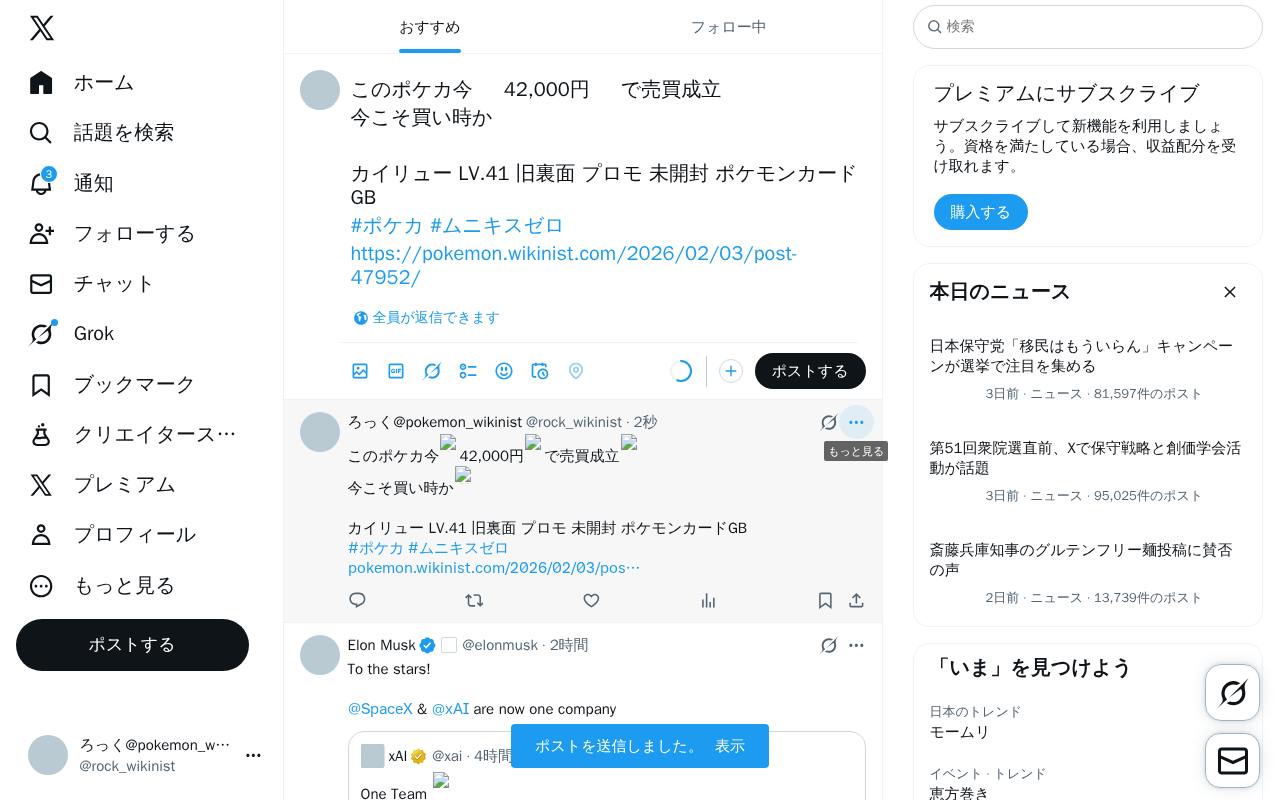
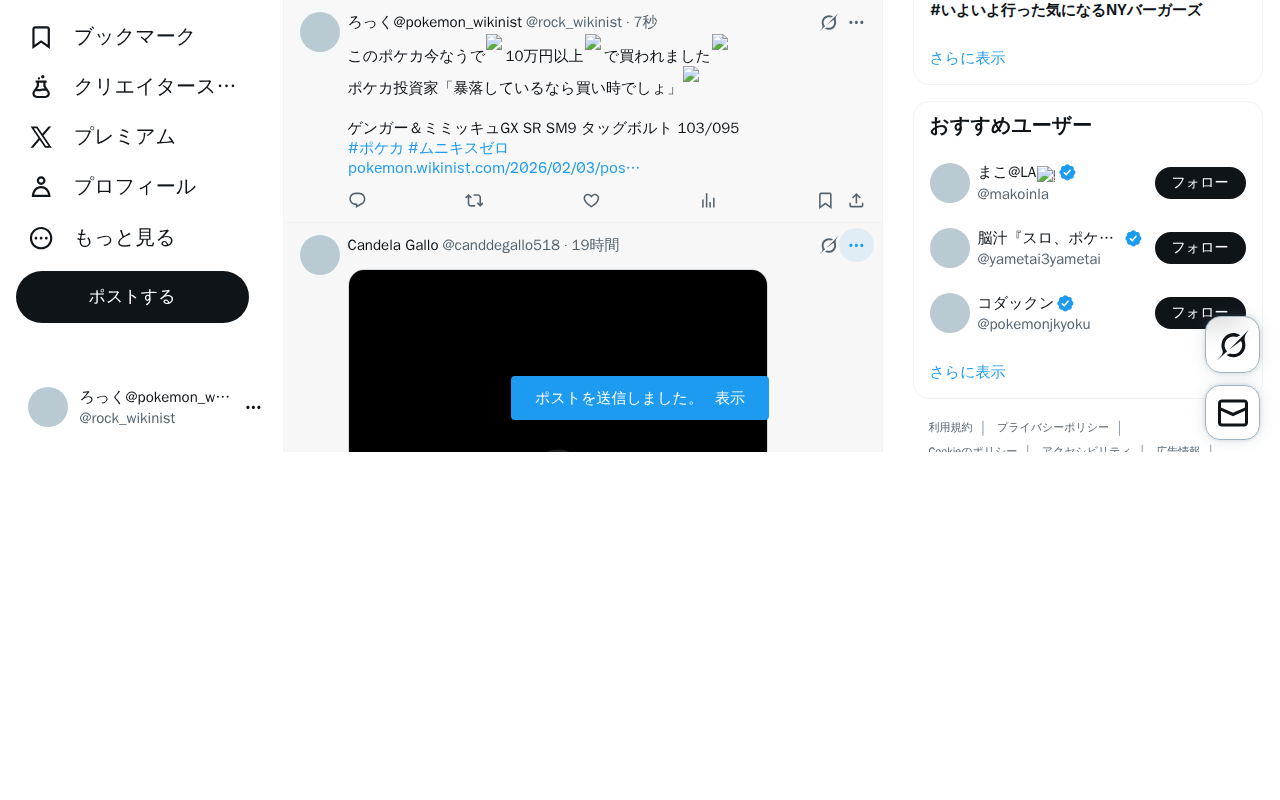
update system data

diff --git a/content/posts/test-pokemon-20260203-115207.md b/content/posts/test-pokemon-20260203-115207.md
@@ -1,0 +1,37 @@
+---
+title: "ゲンガー＆ミミッキュGX SR SM9 タッグボルト 103/095"
+date: 2026-02-03T11:52:07+09:00
+description: "🔥200,000円🔥 メルカリで「ゲンガー＆ミミッキュGX SR SM9 タッグボルト 103/095」が販売中！"
+amazon_url: "https://jp.mercari.com/item/m61620597650?afid=1391290753"
+categories: ["ポケモン"]
+tags: ["ゲンガー", "ミミッキュ", "15万円以上"]
+cover:
+  image: "https://static.mercdn.net/thumb/item/webp/m61620597650_1.jpg?1769992645"
+  hiddenInList: true
+  hiddenInSingle: true
+---
+
+<div class="image-and-buttons">
+    <div class="image-area" style="margin-bottom: 20px; text-align: center;">
+        <a href="https://jp.mercari.com/item/m61620597650?afid=1391290753" target="_blank" rel="nofollow sponsored noopener noreferrer">
+            <img src="https://static.mercdn.net/thumb/item/webp/m61620597650_1.jpg?1769992645" alt="200,000" style="max-width: 100%; border-radius: 8px; border: 1px solid #ddd;" />
+        </a>
+        <br><span style="font-size:1.5em;color:red;font-weight:bold;">🔥200,000円🔥</span>
+    </div>
+    <div class="link-buttons">
+        <a href="https://jp.mercari.com/item/m61620597650?afid=1391290753" target="_blank" rel="nofollow sponsored noopener noreferrer">
+            💎 商品状態を見る
+        </a>
+        <a href="https://jp.mercari.com/search?afid=1391290753&category_id=1289&keyword=%E3%82%B2%E3%83%B3%E3%82%AC%E3%83%BC%EF%BC%86%E3%83%9F%E3%83%9F%E3%83%83%E3%82%AD%E3%83%A5GX%20SR%20SM9%20%E3%82%BF%E3%83%83%E3%82%B0%E3%83%9C%E3%83%AB%E3%83%88%20103%2F095" target="_blank" rel="nofollow sponsored noopener noreferrer">
+            🔍 類似商品を見る
+        </a>
+        <a href="https://jp.mercari.com/search?afid=1391290753&brand_id=&category_id=1289&color_id=&item_condition_id=&item_types=&keyword=%E3%82%B2%E3%83%B3%E3%82%AC%E3%83%BC%EF%BC%86%E3%83%9F%E3%83%9F%E3%83%83%E3%82%AD%E3%83%A5GX%20SR%20SM9%20%E3%82%BF%E3%83%83%E3%82%B0%E3%83%9C%E3%83%AB%E3%83%88%20103%2F095&order=desc&shipping_method=&shipping_payer_id=&size_id=&sort=created_time&status=sold_out%2Ctrading" target="_blank" rel="nofollow sponsored noopener noreferrer">
+            📈 価格推移・履歴を見る
+        </a>
+    </div>
+</div>
+
+<p style="font-size:1.0em;color:#555;line-height:1.6;">
+「ゲンガー＆ミミッキュGX SR SM9 タッグボルト 103/095」はメルカリに出品されました！<br>
+最新のポケモン情報は当サイトで随時更新中です。
+</p>
